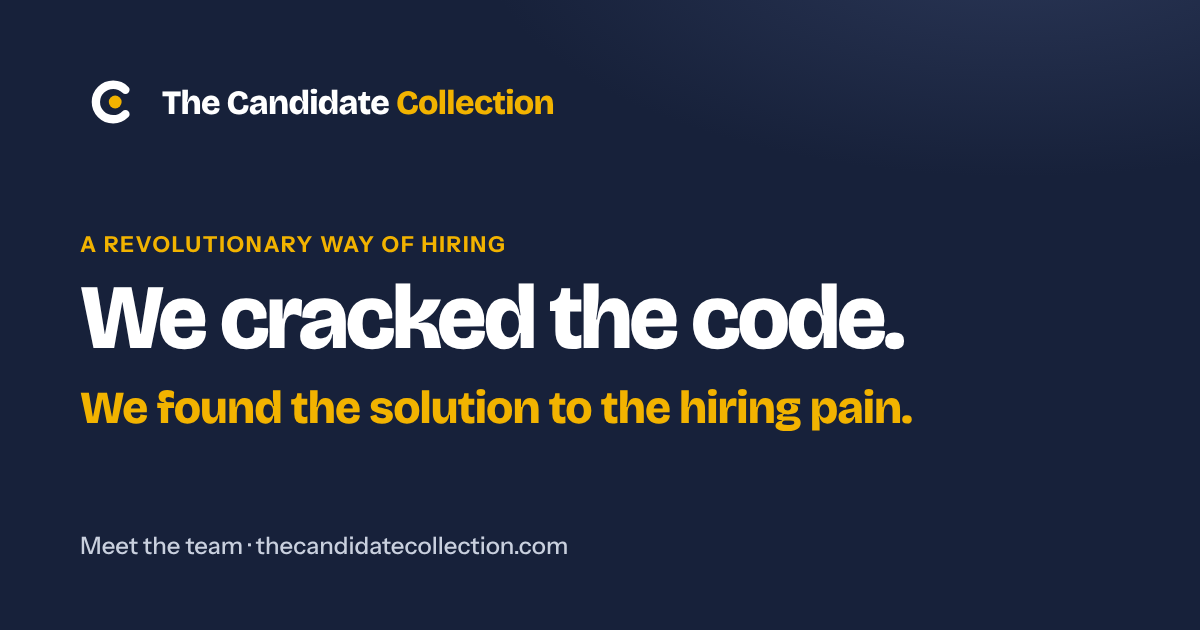
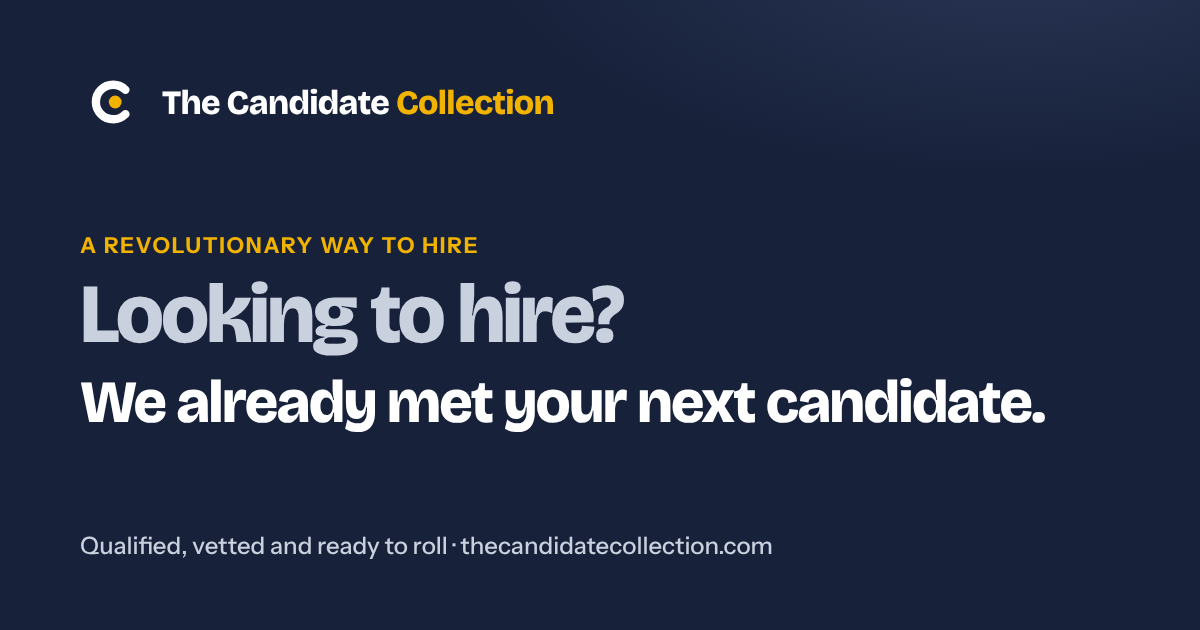
Pre-deploy pass: messaging and share image match the new front page, How it works and billing point to the call-back, Our story left as it is live, lint fix
Claude-Session: https://claude.ai/code/session_01EZeEyNzeQFPN4DFsUvzuMe

diff --git a/src/app/why/page.tsx b/src/app/why/page.tsx
@@ -1,99 +1,96 @@
 import { keepCandidatesOut } from "@/lib/candidateMode";
 import type { Metadata } from "next";
 import Link from "next/link";
+import { brandName } from "@/lib/format";
 import styles from "./why.module.css";
 
 export const metadata: Metadata = {
-  title: "Our story",
-  description: "Why we started The Candidate Collection: get to know candidates first, give owners real options, and a fee that sets every hire up to succeed.",
+  title: "Why we started",
+  description: "We're business owners. We built the hiring experience we always wanted: browse candidates who were met and coached, and choose for yourself.",
 };
 
-// Our story, in Heshy's words: why hiring frustrates everyone, what we do
-// differently, and why the fee works the way it does.
+// The landing page for the owner teaser: our story, what's different, and
+// what we won't do, told from the business owner's side.
 export default async function WhyPage() {
   await keepCandidatesOut();
   return (
     <>
       <section className={styles.hero}>
         <div className="wrap">
-          <p className={styles.label}>Our story</p>
-          <h1>We asked a simple question.</h1>
-          <p className={styles.lead}>What if hiring started with the person?</p>
+          <p className={styles.label}>Why we started</p>
+          <h1>We built the hiring experience we always wanted.</h1>
+          <p className={styles.lead}>
+            We&rsquo;re business owners. Every time we hired, we spent more time answering questions than meeting people. So we
+            changed the order.
+          </p>
         </div>
       </section>
 
       <article className={`wrap ${styles.body}`}>
+        <h2 className={styles.h2}>Hiring was backwards.</h2>
         <p>
-          Every business owner knows how it goes. A position opens, and the search begins. Post the job, sort the résumés,
-          interview, decide.
+          You know the routine. A call to explain what you need. A meeting to explain it again. A checklist, a questionnaire, a
+          &ldquo;quick review&rdquo; of how you run things, from someone who met you that morning. Then the fee. Then weeks of
+          wondering if you got it right.
         </p>
+        <p className={styles.punch}>By the time we met a single candidate, we&rsquo;d been interviewed more than they had.</p>
         <p>
-          Every candidate knows the other side of it. Send the résumé, wait, and try to fit into a role that may or may not fit
-          them.
-        </p>
-        <p>
-          Both sides want the same thing: the right person in the right seat. Yet the process keeps them apart until the very end.
-        </p>
-        <p className={styles.punch}>We thought there was a better way.</p>
-
-        <h2 className={styles.h2}>Start with the person.</h2>
-        <p>
-          Everyone has work they&rsquo;re naturally great at. When people find it, they thrive, and so does the business that hires
-          them.
-        </p>
-        <p>
-          So that&rsquo;s where we start. We sit down with candidates one by one. We learn their strengths, how they like to work,
-          and what they want to do next. We help them see where they belong, and we get to know them well.
+          We know our businesses. We know what we need and who we need. <strong>We wanted good people, and the freedom to
+          choose.</strong>
         </p>
 
-        <h2 className={styles.h2}>So when you&rsquo;re hiring, we already know people.</h2>
-        <p>
-          By the time you tell us about your position, we&rsquo;re not starting a search. We&rsquo;re thinking about people
-          we&rsquo;ve met. People who are available, and looking for exactly this kind of work.
-        </p>
-        <p>
-          You see them, you meet them, you choose. <strong>It&rsquo;s your business, and every decision stays yours.</strong>
-        </p>
-
-        <h2 className={styles.h2}>A fee that&rsquo;s fair and simple.</h2>
-        <p>
-          One flat fee, paid the day you decide to hire. Never a percentage of salary, and nothing at all if you don&rsquo;t hire.
-        </p>
-        <p>
-          Why the day you hire? Because a new hire does best when everyone starts all in. Once the decision is made, it&rsquo;s done,
-          and the focus is on the work. <Link href="/billing">Our billing philosophy</Link>
-        </p>
-
-        <h2 className={styles.h2}>That&rsquo;s the whole idea.</h2>
-        <div className={styles.steps} style={{ gridTemplateColumns: "repeat(auto-fit, minmax(180px, 1fr))" }}>
+        <h2 className={styles.h2}>So we flipped it.</h2>
+        <p>The candidate does the work up front. You do the choosing.</p>
+        <div className={styles.steps}>
           <div className={styles.step}>
-            <strong>Candidates</strong>
-            <span>in work that fits them.</span>
+            <strong>We sit with every candidate first.</strong>
+            <span>
+              A real conversation with one of our reps. They discover their natural strengths and the role they belong in, before
+              you ever see them.
+            </span>
           </div>
           <div className={styles.step}>
-            <strong>Owners</strong>
-            <span>with great options.</span>
+            <strong>You see the fit before the name.</strong>
+            <span>Strengths, experience, pay range and what they&rsquo;re looking for, on one page. Browse as long as you like.</span>
           </div>
           <div className={styles.step}>
-            <strong>Hires</strong>
-            <span>that start strong.</span>
+            <strong>You choose. Directly.</strong>
+            <span>Sign once to see who they are, with your card on file and nothing charged. Then call them yourself.</span>
+          </div>
+          <div className={styles.step}>
+            <strong>One flat fee, only if you hire.</strong>
+            <span>You see the fee before you sign. No percentages, no surprises.</span>
           </div>
         </div>
-        <p style={{ marginTop: 26 }}>
-          We started The Candidate Collection to make hiring feel the way it should. We&rsquo;d love to show you how it works.
-        </p>
+
+        <section className={styles.works}>
+          <h2>Why it works</h2>
+          <p>
+            Our candidates have been coached to understand where they shine and what role they belong in. When someone who knows
+            what they&rsquo;re looking for meets an owner who knows what they need, that&rsquo;s a setup for success.
+          </p>
+        </section>
+
+        <h2 className={styles.h2}>What we won&rsquo;t do</h2>
+        <ul className={styles.wont}>
+          <li>Ask you to sit through an intake call before you can see anyone.</li>
+          <li>Hand you checklists and homework.</li>
+          <li>Tell you how to run your business, or who you should hire.</li>
+          <li>Charge you anything unless you hire.</li>
+        </ul>
+        <p className={styles.sign}>The founders of {brandName()}</p>
       </article>
 
       <section className={styles.closing}>
         <div className="wrap">
-          <h2>Let&rsquo;s talk.</h2>
-          <p>A short video call with our founders. Tell us who you need, and hear what we have to offer.</p>
+          <h2>It&rsquo;s your business. Pick your people.</h2>
+          <p>Free to browse. No account needed to look around.</p>
           <div className={styles.actions}>
-            <Link className="btn btn-gold" href="/meet">
-              Meet the founders
-            </Link>
-            <Link className={`btn btn-ghost ${styles.light}`} href="/candidates">
+            <Link className="btn btn-gold" href="/candidates">
               Browse candidates
+            </Link>
+            <Link className={`btn btn-ghost ${styles.light}`} href="/mission">
+              Our mission for candidates
             </Link>
           </div>
         </div>

diff --git a/src/app/how-it-works/page.tsx b/src/app/how-it-works/page.tsx
@@ -49,7 +49,7 @@ export default async function HowItWorks() {
   const working: QA[] = [
     [
       "What happens on the call with your team?",
-      "It's a short video call on Google Meet, and you pick the length: 10, 20 or 30 minutes. A phone call works too. You tell us about the position, we explain how we work, and we tell you who might fit.",
+      "Leave your number on the front page and we call you back. Or pick a time for a short video call on Google Meet: 10, 20 or 30 minutes. You tell us about the position, we explain how we work, and we tell you who we have.",
     ],
     [
       "What do I sign?",
@@ -110,7 +110,7 @@ export default async function HowItWorks() {
       <section className={s.hero}>
         <div className="wrap">
           <p className={s.label}>How it works</p>
-          <h1>We know our candidates. That&rsquo;s the whole idea.</h1>
+          <h1>We already met the candidates. That&rsquo;s the whole idea.</h1>
           <p className={s.lead}>What we do, how it works step by step, who we are, and straight answers to the questions owners ask.</p>
         </div>
       </section>
@@ -123,12 +123,12 @@ export default async function HowItWorks() {
           </div>
           <div className={s.whatBody}>
             <p>
-              A résumé isn&rsquo;t a candidate. So we don&rsquo;t collect résumés. We sit down with people who are ready for their next role,
-              go through their experience, have them take a career strengths assessment, and learn what kind of work fits them.
+              We don&rsquo;t start searching the day you call. We sit down with people who are ready for their next role, go through their
+              experience, have them take a career strengths assessment, and learn what kind of work fits them.
             </p>
             <p>
-              <b>That&rsquo;s The Candidate Collection:</b> {n ? `${n} people` : "people"} we know, ready now. When you have a position to
-              fill, you tell us about it, and you meet the ones who fit.
+              <b>That&rsquo;s The Candidate Collection:</b> {n ? `${n} people` : "people"} we know, ready now. Tell us what you need, and
+              half an hour later you can have a qualified candidate to consider.
             </p>
           </div>
         </div>
@@ -141,7 +141,7 @@ export default async function HowItWorks() {
           <ol className={s.steps}>
             <li>
               <b>Talk to our team</b>
-              <p>A short video call. Tell us about the position and the kind of person who&rsquo;d thrive in it.</p>
+              <p>Leave your number and we call you back, or pick a time for a short video call.</p>
             </li>
             <li>
               <b>See who fits</b>
@@ -200,11 +200,13 @@ export default async function HowItWorks() {
       <section className={s.close}>
         <div className="wrap">
           <h2>Another question? Ask us.</h2>
-          <p>Tell our team what you&rsquo;re looking for. We&rsquo;ll tell you who might fit.</p>
-          <Link className={`btn btn-gold ${s.closeBtn}`} href="/meet">
+          <p>Tell us what you need, and hear who we have.</p>
+          <Link className={`btn btn-gold ${s.closeBtn}`} href="/#callback">
             Talk to our team
           </Link>
-          <span>A short video call, at a time that works for you</span>
+          <span>
+            We call you back. Or <Link href="/meet">pick a time for a video call</Link>
+          </span>
         </div>
       </section>
     </>

diff --git a/src/app/home.module.css b/src/app/home.module.css
@@ -1,4 +1,5 @@
 /* Front page. One idea per section, headings that tell the story on their own. */
+.hero h1, .plan h2, .feel h2, .flip h2, .now h2, .invite h2, .cb h2 { text-wrap: balance; }
 .kicker, .label, .labelGold { font-weight: 700; font-size: 13.5px; letter-spacing: 0.12em; text-transform: uppercase; margin: 0 0 16px; }
 .kicker, .labelGold { color: var(--marigold); }
 .label { color: #a87a00; }
@@ -128,7 +129,7 @@
 
 /* Invitation */
 .invite { background: radial-gradient(900px 420px at 50% 120%, #2a3656 0%, transparent 60%), var(--ink); color: #fff; padding: clamp(80px, 11vw, 136px) 0; text-align: center; }
-.invite h2 { font-size: clamp(36px, 5vw, 64px); letter-spacing: -0.04em; line-height: 1.04; margin: 0 auto; max-width: 18ch; }
+.invite h2 { font-size: clamp(36px, 5vw, 64px); letter-spacing: -0.04em; line-height: 1.04; margin: 0 auto; max-width: 22ch; }
 .invite h2 + p { font-size: clamp(18px, 1.9vw, 23px); color: #d3d9e5; margin: 20px auto 34px; max-width: 32ch; }
 .invite .cta { justify-items: center; }
 .alt { margin: 34px 0 0; font-size: 15px; color: #aab3c6; }

diff --git a/src/app/account/page.tsx b/src/app/account/page.tsx
@@ -9,7 +9,7 @@ import { HiringFor } from "./HiringFor";
 import { OwnerMatchNote } from "@/components/OwnerMatchNote";
 import { ownerPositions } from "@/lib/ownerMatches";
 import { bigStepIndex, loadPath, pathState, Stage } from "@/lib/path";
-import { COMPANY_TZ, formatInZone } from "@/lib/time";
+import { COMPANY_TZ, formatInZone, nowMs as now } from "@/lib/time";
 
 export const dynamic = "force-dynamic";
 
@@ -37,7 +37,7 @@ export default async function AccountPage({ searchParams }: PageProps<"/account"
   // Candidates they passed on go to the bottom.
   const rows = [...all.filter((r) => !r.passed_at), ...all.filter((r) => r.passed_at)];
   const paths = await loadPath(all.map((r) => r.id));
-  const nowMs = Date.now();
+  const nowMs = now();
   const cards = rows.map((r) => {
     const hire = [...r.hires].sort((a, b) => b.created_at.localeCompare(a.created_at))[0];
     const st = pathState(r, paths, { hireStatus: hire?.status, candidateStatus: r.candidates.status, nowMs });

diff --git a/src/app/layout.tsx b/src/app/layout.tsx
@@ -21,9 +21,9 @@ export const metadata: Metadata = {
   openGraph: {
     type: "website",
     siteName: brandName(),
-    title: "You don't need more résumés. You need the right person.",
-    description: "We've sat down with every candidate and learned what each one is truly great at. So you meet the people who fit your position.",
-    images: [{ url: "/share/og.png", width: 1200, height: 630, alt: "We cracked the code. We found the solution to the hiring pain." }],
+    title: "Looking to hire? We already met your next candidate.",
+    description: "Qualified candidates, vetted and ready to roll. Tell us what you need, and half an hour later you can have a qualified candidate to consider.",
+    images: [{ url: "/share/og.png", width: 1200, height: 630, alt: "Looking to hire? We already met your next candidate." }],
   },
   twitter: { card: "summary_large_image", images: ["/share/og.png"] },
   // Proves to Google Search Console that we own the site.

diff --git a/src/app/billing/page.tsx b/src/app/billing/page.tsx
@@ -71,7 +71,7 @@ export default async function BillingPage() {
         <div className="wrap">
           <h2>Questions about how it works? We&rsquo;re here to talk.</h2>
           <div className={styles.actions}>
-            <Link className="btn btn-gold" href="/meet">
+            <Link className="btn btn-gold" href="/#callback">
               Talk to our team
             </Link>
             <Link className={`btn btn-ghost ${styles.light}`} href="/how-it-works">
